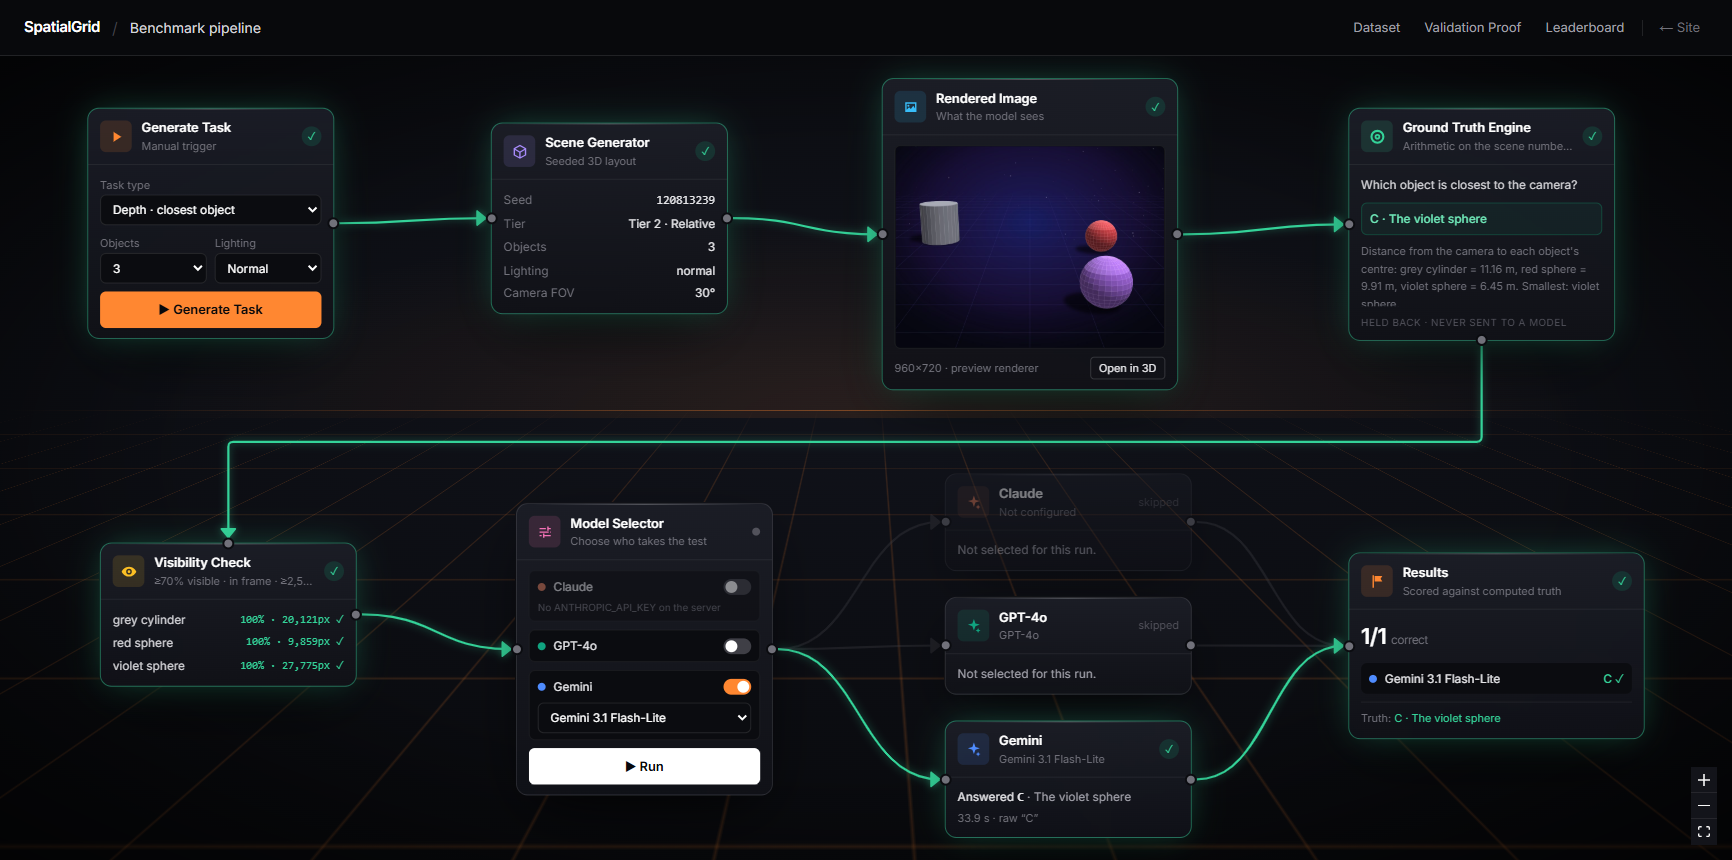
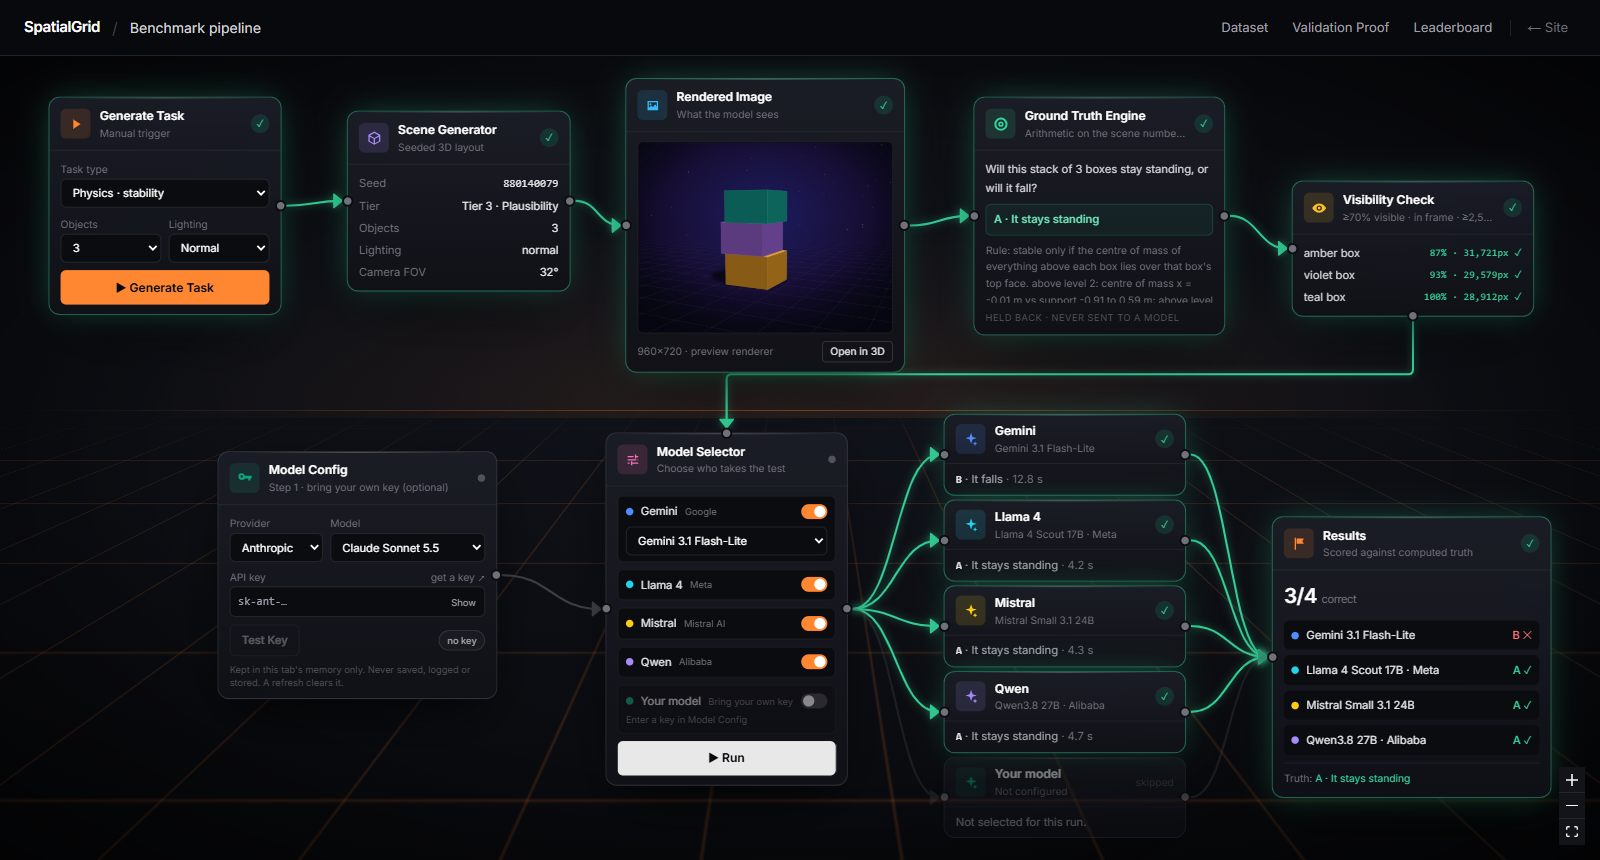
Pipeline: wide two-row layout and compact model lanes, so it fills short screens
Generation steps now run in one row ending in Visibility Check, which drops
into the Model Selector; model lanes are single-line. The graph is ~20%
shorter, so it renders about 30% larger on laptop screens.

diff --git a/components/app/pipeline/nodes.tsx b/components/app/pipeline/nodes.tsx
@@ -46,10 +46,10 @@ export function StatusBadge({ s }: { s: Status }) {
 const handleCls = "!h-3 !w-3 !border-2 !border-[#0b0c10] !bg-zinc-500";
 
 function Shell({
-  icon, color, title, sub, status, width = 240, children, inPos = Position.Left, outPos = Position.Right, noIn, noOut, dim,
+  icon, color, title, sub, status, width = 240, children, inPos = Position.Left, outPos = Position.Right, noIn, noOut, dim, topIn, compact,
 }: {
   icon: string; color: string; title: string; sub?: string; status: Status; width?: number; children?: React.ReactNode;
-  inPos?: Position; outPos?: Position; noIn?: boolean; noOut?: boolean; dim?: boolean;
+  inPos?: Position; outPos?: Position; noIn?: boolean; noOut?: boolean; dim?: boolean; topIn?: boolean; compact?: boolean;
 }) {
   const ring =
     status === "running" ? "border-accent/80 sg-running"
@@ -62,7 +62,8 @@ function Shell({
       style={{ width }}
     >
       {!noIn && <Handle type="target" position={inPos} className={handleCls} />}
-      <div className="flex items-center gap-2.5 border-b border-white/[0.06] px-3 py-2.5">
+      {topIn && <Handle type="target" id="top" position={Position.Top} className={handleCls} />}
+      <div className={`flex items-center gap-2.5 border-b border-white/[0.06] px-3 ${compact ? "py-2" : "py-2.5"}`}>
         <Icon name={icon} color={color} />
         <div className="min-w-0 flex-1">
           <p className="truncate text-[13px] font-semibold text-white">{title}</p>
@@ -70,7 +71,7 @@ function Shell({
         </div>
         <StatusBadge s={status} />
       </div>
-      <div className="px-3 py-2.5 text-[12px] leading-relaxed text-zinc-400">{children}</div>
+      <div className={`px-3 text-[12px] leading-relaxed text-zinc-400 ${compact ? "py-1.5" : "py-2.5"}`}>{children}</div>
       {!noOut && <Handle type="source" position={outPos} className={handleCls} />}
     </div>
   );
@@ -176,7 +177,7 @@ export function TruthNode(_: NodeProps) {
   const { task, stages } = usePipeline();
   const ready = task && (stages.truth === "done" || stages.truth === "failed");
   return (
-    <Shell icon="target" color="#34d399" title="Ground Truth Engine" sub="Arithmetic on the scene numbers" status={stages.truth} width={270} outPos={Position.Bottom}>
+    <Shell icon="target" color="#34d399" title="Ground Truth Engine" sub="Arithmetic on the scene numbers" status={stages.truth} width={270}>
       {ready ? (
         <div>
           <p className="text-[12px] text-zinc-300">{task.question}</p>
@@ -197,7 +198,7 @@ export function VisibilityNode(_: NodeProps) {
   const { task, stages } = usePipeline();
   const ready = task && (stages.visibility === "done" || stages.visibility === "failed");
   return (
-    <Shell icon="eye" color="#fbbf24" title="Visibility Check" sub="≥70% visible · in frame · ≥2,500 px" status={stages.visibility} width={260} inPos={Position.Top}>
+    <Shell icon="eye" color="#fbbf24" title="Visibility Check" sub="≥70% visible · in frame · ≥2,500 px" status={stages.visibility} width={260} outPos={Position.Bottom}>
       {ready ? (
         <ul className="space-y-1">
           {task.visibility.map((v) => (
@@ -219,7 +220,7 @@ export function VisibilityNode(_: NodeProps) {
 export function SelectorNode(_: NodeProps) {
   const { slotModels, selected, toggle, slotModel, setSlotModel, run, canRun, running, task, loaded, laneReady, laneNote, laneLabel } = usePipeline();
   return (
-    <Shell icon="sliders" color="#f472b6" title="Model Selector" sub="Choose who takes the test" status={running ? "running" : "idle"} width={260}>
+    <Shell icon="sliders" color="#f472b6" title="Model Selector" sub="Choose who takes the test" status={running ? "running" : "idle"} width={260} topIn>
       <div className="space-y-2">
         {SLOTS.map((s) => {
           const models = slotModels(s.slot);
@@ -275,23 +276,19 @@ export function ModelNode({ data }: NodeProps) {
   const configured = laneReady(slot);
   const label = laneLabel(slot);
   return (
-    <Shell icon="spark" color={meta.color} title={meta.name} sub={!loaded ? "Checking…" : configured ? label : "Not configured"} status={r.status} width={250} dim={loaded && (!configured || (!selected[slot] && r.status === "idle"))}>
-      {r.status === "running" && <p>Image + question sent… awaiting reply</p>}
+    <Shell icon="spark" color={meta.color} title={meta.name} sub={!loaded ? "Checking…" : configured ? label : "Not configured"} status={r.status} width={260} compact dim={loaded && (!configured || (!selected[slot] && r.status === "idle"))}>
+      {r.status === "running" && <p className="truncate">Image + question sent… awaiting reply</p>}
       {r.status === "done" && task && (
-        <div>
-          <p className="text-zinc-200">
-            Answered <span className="font-mono font-semibold">{r.choice === null || r.choice === undefined ? "?" : String.fromCharCode(65 + r.choice)}</span>
-            {r.choice !== null && r.choice !== undefined && <span className="text-zinc-400"> · {task.options[r.choice]}</span>}
-          </p>
-          <p className="mt-0.5 truncate text-[11px] text-zinc-500">
-            {((r.ms ?? 0) / 1000).toFixed(1)} s{r.keySource === "user" ? " · your key" : ""} · raw “{(r.raw ?? "").trim().slice(-30)}”
-          </p>
-        </div>
+        <p className="truncate text-zinc-200" title={`raw reply: ${(r.raw ?? "").trim()}`}>
+          <span className="font-mono font-semibold">{r.choice === null || r.choice === undefined ? "?" : String.fromCharCode(65 + r.choice)}</span>
+          {r.choice !== null && r.choice !== undefined && <span className="text-zinc-400"> · {task.options[r.choice]}</span>}
+          <span className="text-zinc-500"> · {((r.ms ?? 0) / 1000).toFixed(1)} s{r.keySource === "user" ? " · your key" : ""}</span>
+        </p>
       )}
-      {r.status === "failed" && <p className="line-clamp-2 text-red-300">{r.error}</p>}
-      {r.status === "skipped" && <p>Not selected for this run.</p>}
+      {r.status === "failed" && <p className="truncate text-red-300" title={r.error}>{r.error}</p>}
+      {r.status === "skipped" && <p className="truncate">Not selected for this run.</p>}
       {r.status === "idle" && (
-        <p>
+        <p className="truncate">
           {!loaded
             ? "Checking server keys…"
             : slot === "byok"

diff --git a/components/app/pipeline/PipelineCanvas.tsx b/components/app/pipeline/PipelineCanvas.tsx
@@ -9,21 +9,24 @@ import { PipelineProvider, SLOTS, usePipeline, type Status } from "./state";
 
 const SceneViewer3D = dynamic(() => import("../SceneViewer3D"), { ssr: false });
 
-/* two rows, read left to right: generation on top, evaluation below. Base layout is ~1300 x 770. */
+/*
+ * Two wide rows, read left to right. Top: the task is generated and checked.
+ * Bottom: models are configured, chosen and run, and the results scored. Base layout is ~1530 x 820.
+ */
 const BASE: Node[] = [
-  { id: "trigger", type: "trigger", position: { x: 0, y: 30 }, data: {} },
-  { id: "scene", type: "scene", position: { x: 320, y: 45 }, data: {} },
-  { id: "preview", type: "preview", position: { x: 630, y: 0 }, data: {} },
-  { id: "truth", type: "truth", position: { x: 1000, y: 30 }, data: {} },
-  { id: "visibility", type: "visibility", position: { x: 10, y: 440 }, data: {} },
+  { id: "trigger", type: "trigger", position: { x: 0, y: 20 }, data: {} },
+  { id: "scene", type: "scene", position: { x: 300, y: 35 }, data: {} },
+  { id: "preview", type: "preview", position: { x: 580, y: 0 }, data: {} },
+  { id: "truth", type: "truth", position: { x: 930, y: 20 }, data: {} },
+  { id: "visibility", type: "visibility", position: { x: 1250, y: 110 }, data: {} },
   // step 1 for visitors: their own model and key, feeding the selector
-  { id: "config", type: "config", position: { x: 0, y: 650 }, data: {} },
-  { id: "selector", type: "selector", position: { x: 340, y: 440 }, data: {} },
-  // one model lane per company, stacked
-  ...SLOTS.map((s, i) => ({ id: s.slot, type: "model", position: { x: 680, y: 400 + i * 116 }, data: { slot: s.slot } })),
-  { id: "results", type: "results", position: { x: 1000, y: 560 }, data: {} },
+  { id: "config", type: "config", position: { x: 170, y: 400 }, data: {} },
+  { id: "selector", type: "selector", position: { x: 560, y: 380 }, data: {} },
+  // one compact lane per company, stacked
+  ...SLOTS.map((s, i) => ({ id: s.slot, type: "model", position: { x: 900, y: 360 + i * 92 }, data: { slot: s.slot } })),
+  { id: "results", type: "results", position: { x: 1230, y: 470 }, data: {} },
 ];
-const BASE_W = 1300, BASE_H = 1040;
+const BASE_W = 1530, BASE_H = 820;
 /** stretch the columns so the graph has the same shape as the screen, so it can be zoomed to fill it */
 const layout = (k: number) => BASE.map((n) => ({ ...n, position: { x: n.position.x * k, y: n.position.y } }));
 
@@ -56,7 +59,7 @@ function Flow() {
     const fit = () => {
       const { width, height } = el.getBoundingClientRect();
       if (!width || !height) return;
-      const k = Math.min(1.7, Math.max(1, (width / height) * (BASE_H / BASE_W)));
+      const k = Math.min(1.5, Math.max(1, (width / height) * (BASE_H / BASE_W)));
       setNodes(layout(k));
       cancelAnimationFrame(raf);
       raf = requestAnimationFrame(() => requestAnimationFrame(() => fitView({ padding: 0.06, maxZoom: 1.8, duration: 250 })));
@@ -84,8 +87,8 @@ function Flow() {
       edge("e1", "trigger", "scene", trig, stages.scene),
       edge("e2", "scene", "preview", stages.scene, stages.preview),
       edge("e3", "preview", "truth", stages.preview, stages.truth),
-      edge("e4", "truth", "visibility", stages.truth, stages.visibility, { type: "smoothstep" }),
-      edge("e5", "visibility", "selector", stages.visibility, sel),
+      edge("e4", "truth", "visibility", stages.truth, stages.visibility),
+      edge("e5", "visibility", "selector", stages.visibility, sel, { type: "smoothstep", targetHandle: "top" }),
       edge("e-cfg", "config", "selector", byok.status === "valid" ? "done" : "idle", byok.status === "testing" ? "running" : byok.status === "valid" ? "done" : byok.status === "invalid" ? "failed" : "idle"),
       ...SLOTS.map(({ slot: s }) => edge(`m-${s}`, "selector", s, sel, runs[s].status)),
       // model -> results: in transit once that model has answered, until every model is back
